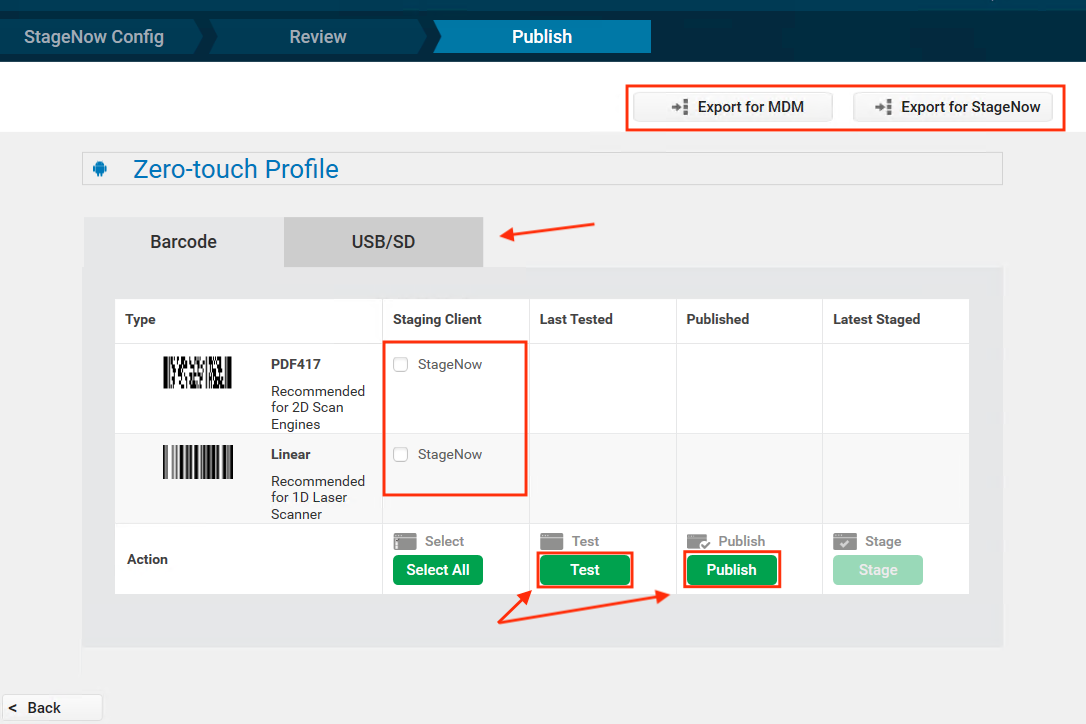
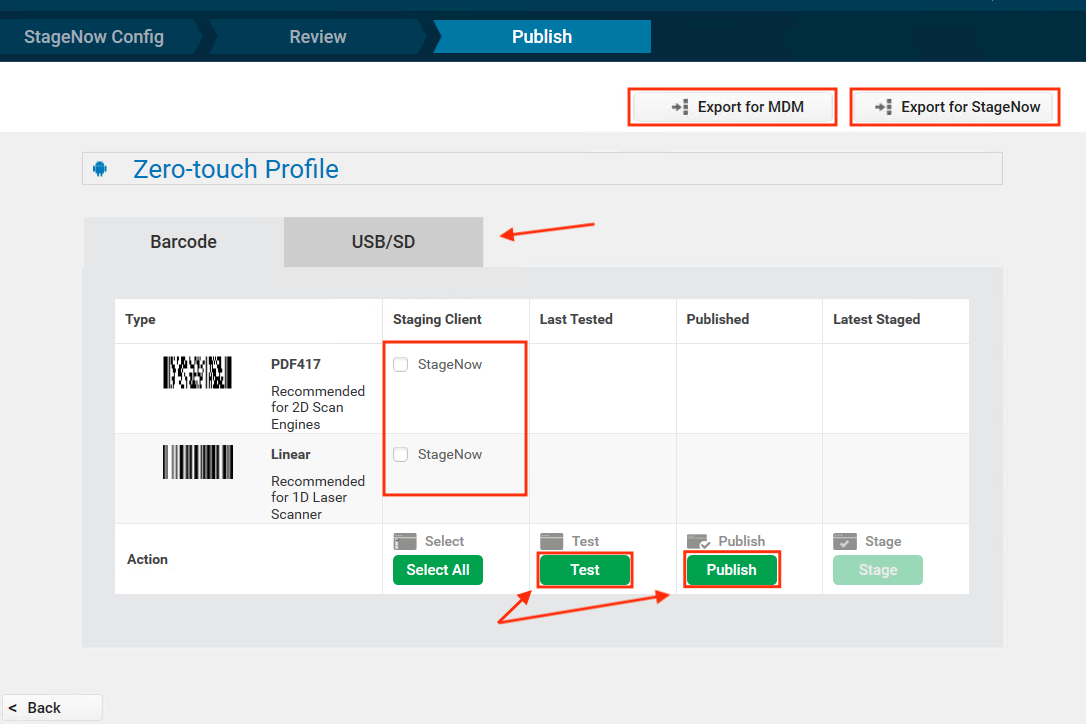
[TUT-40048] SN 4.2 Zero Touch guide updates

Changed region(s): [[0.5773, 0.0912, 1.0, 0.1823]]

diff --git a/src/stagenow/4-2/Profiles/zerotouch/index.md b/src/stagenow/4-2/Profiles/zerotouch/index.md
@@ -40,7 +40,7 @@ sn42_ztw_00.png
  <img alt="image" style="height:400px" src="sn42_ztw_03.png"/>
  _Click image to enlarge; ESC to exit_.<br>
 <br>
-4. **Select Persistence preference**:  
+4. **Select Persistence preference**, then **click Continue**:  
  <img alt="image" style="height:350px" src="sn42_ztw_04.png"/>
  _Click image to enlarge; ESC to exit_.<br>
 <br>
@@ -54,5 +54,6 @@ sn42_ztw_00.png
  _Click image to enlarge; ESC to exit_.<br>
 <br>
 7. **Test Profile** to confirm desired behavior. 
+8. **Select Export method** as needed.  
 
 #### The Profile is now ready for deployment. 
